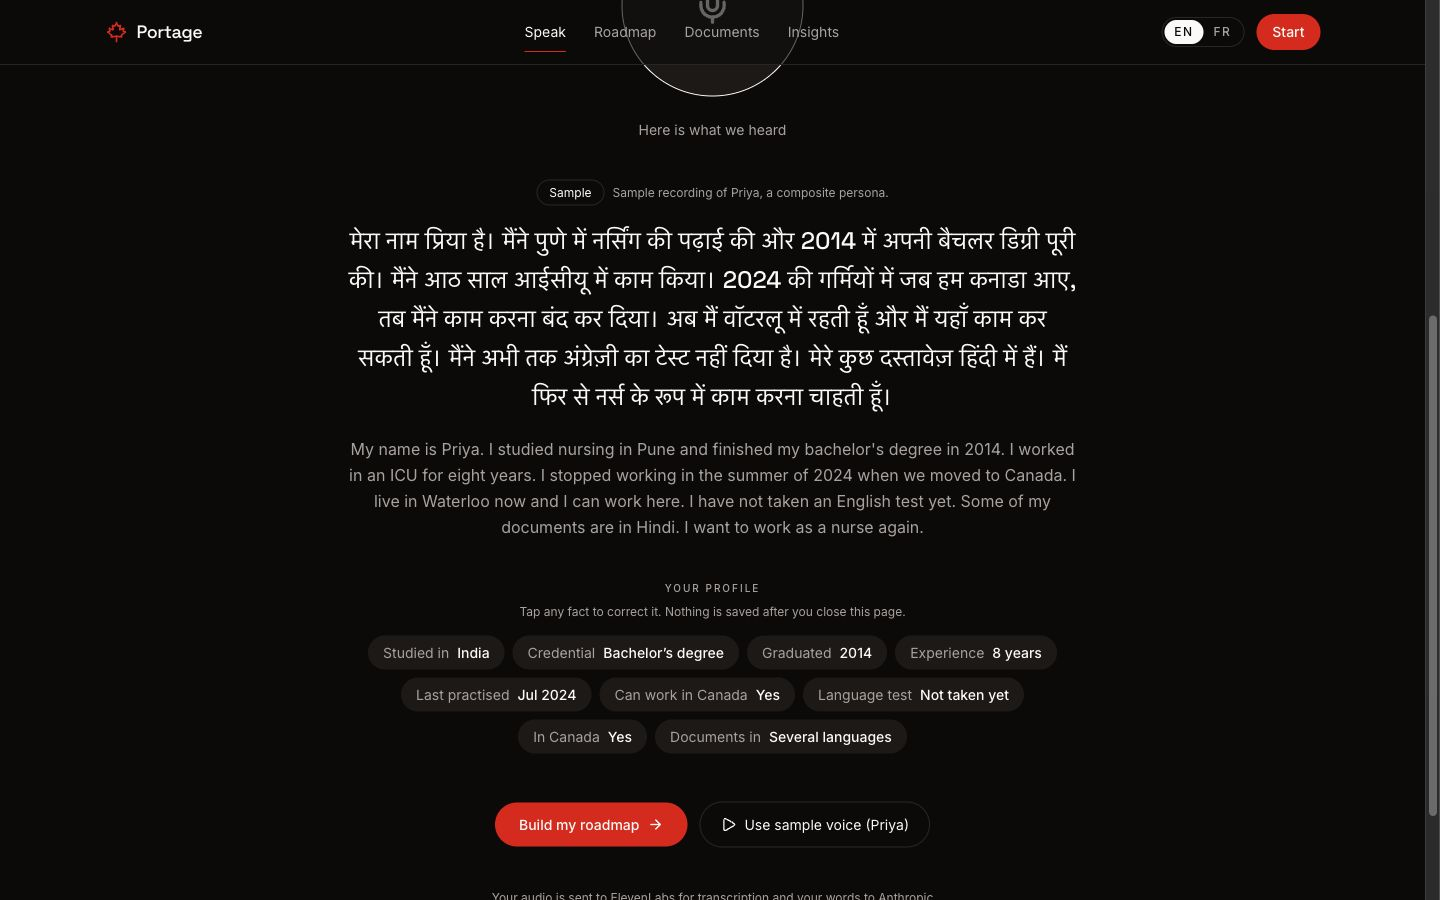
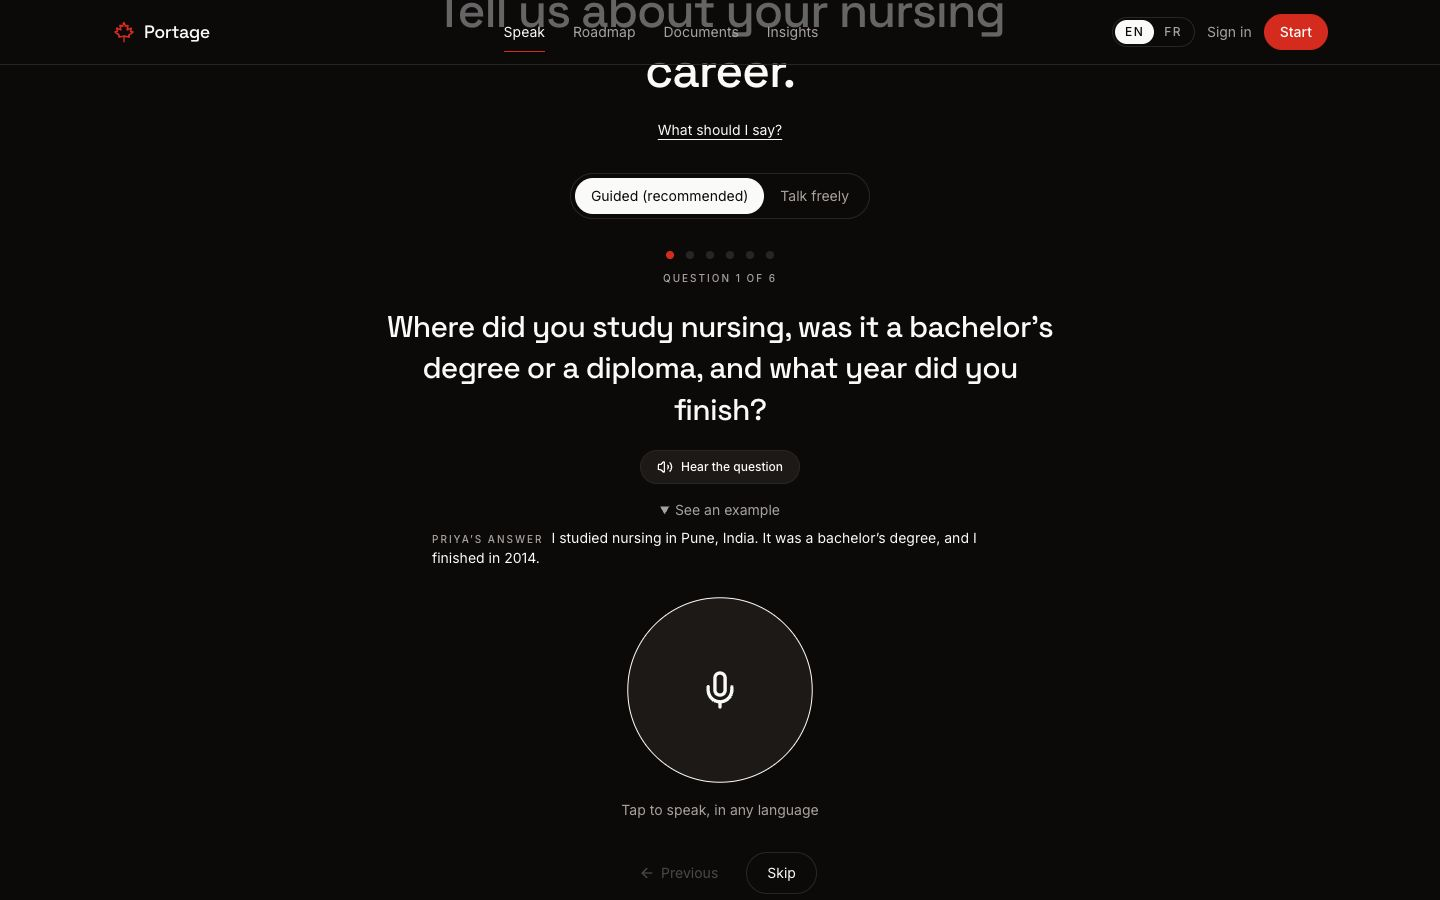
docs: demo flow through sign-in and the profile, guided shots, smoke checks

diff --git a/src/components/pitch/copy.ts b/src/components/pitch/copy.ts
@@ -53,7 +53,8 @@ export const SLIDES: SlideCopy[] = [
     label: "Live",
     notes: [
       "Let me show you. Click Open the live demo: same tab, real AI.",
-      "Path: sample voice, Build my roadmap, toggle to the Portage plan, Hear your plan, Documents police check, Insights, then Back to pitch.",
+      "Path: Continue as Priya (demo), her profile is already filled; settle the name conflict; Roadmap, toggle to the Portage plan, Hear your plan; Documents; Insights; then Back to pitch.",
+      "5 min: on Speak, show the guided interview: one question at a time, read aloud in Hindi.",
       "If anything is slow, use the demo-mode link instead: same flow with fixtures.",
     ],
   },

diff --git a/docs/DEMO_RUNBOOK.md b/docs/DEMO_RUNBOOK.md
@@ -1,10 +1,10 @@
 # Demo runbook
 
 - Deck: **https://portage-navy.vercel.app/pitch** (the live demo starts from slide 5, in the same tab)
-- Demo: **https://portage-navy.vercel.app**; instant backup: **https://portage-navy.vercel.app/?from=pitch&demo=1**
+- Demo: starts at **https://portage-navy.vercel.app/signin** (Continue as Priya); instant backup: **https://portage-navy.vercel.app/signin?from=pitch&demo=1**
 - Known-good release: tag **`v1.2-demo`** (commit `5bab52a`, "Merge pull request #52": the Portage line hero and product shots in the chapters). Older fallbacks: `v1.1-demo` (`3fe94e1`, one language at a time) and `v1.0-demo` (`8063c17`). See [If a late deploy breaks the site](#if-a-late-deploy-breaks-the-site).
 
-The pitch runs live with real AI (decision 15). `?demo=1` serves fixtures with no network calls to the AI providers. Priya is a composite persona; say so if asked.
+The pitch runs live with real AI (decision 15). `?demo=1` serves fixtures with no network calls to the AI providers. Priya is a composite persona; say so if asked. Her demo account lives only in this browser (decision 18): no server, no password.
 
 ## T-10 minutes
 
@@ -12,10 +12,10 @@ The pitch runs live with real AI (decision 15). `?demo=1` serves fixtures with n
 - [ ] Chrome: a profile with **no extensions**, zoom **100%**, window at least 1440 wide, bookmarks bar hidden.
 - [ ] Sound **on**, volume about 60%, output to the room speakers if there are any (for "Hear your plan").
 - [ ] macOS: **Reduce motion OFF** (System Settings, Accessibility, Display), **Do Not Disturb ON**, notifications off, Dock hidden.
-- [ ] From the `portage/` folder: `pnpm smoke https://portage-navy.vercel.app` prints "All checks passed" (six pages including `/pitch`, plus the demo profile call). If anything fails, see [If a late deploy breaks the site](#if-a-late-deploy-breaks-the-site).
+- [ ] From the `portage/` folder: `pnpm smoke https://portage-navy.vercel.app` prints "All checks passed" (ten checks: eight pages including `/pitch`, `/signin` and `/profile`, the demo profile call, and one guide audio clip). If anything fails, see [If a late deploy breaks the site](#if-a-late-deploy-breaks-the-site).
 - [ ] Tabs pre-opened, in this order:
   1. https://portage-navy.vercel.app/pitch (the deck, then the live demo in this same tab)
-  2. https://portage-navy.vercel.app/?from=pitch&demo=1 (backup: same flow with fixtures, and "Back to pitch" still works)
+  2. https://portage-navy.vercel.app/signin?from=pitch&demo=1 (backup: same flow with fixtures, and "Back to pitch" still works)
   3. https://portage-navy.vercel.app/?reset=1 (warm-up tab; also clears a profile before handing the laptop over)
 - [ ] Deck PDF on the desktop: in tab 1 press Cmd+P, Destination **Save as PDF**, **Background graphics** on (9 landscape pages). Copy it to a USB stick or cloud link too.
 - [ ] Backup video on the desktop: `BACKUP_VIDEO_PATH` (placeholder until recorded), opened once in QuickTime.
@@ -26,7 +26,7 @@ Cold serverless functions can take much longer on the first call (a cold profile
 
 ```bash
 L=https://portage-navy.vercel.app
-for p in / /start /roadmap /documents /insights /pitch; do curl -s -o /dev/null -w "$p %{http_code} %{time_total}s\n" "$L$p"; done
+for p in / /start /roadmap /documents /insights /pitch /signin /profile /guide/hi/q1.mp3; do curl -s -o /dev/null -w "$p %{http_code} %{time_total}s\n" "$L$p"; done
 jq -c '{transcript: .text, languageCode, locale: "en"}' src/data/fixtures/transcript-priya.json | curl -s -X POST -H "content-type: application/json" -d @- -o /dev/null -w "profile %{http_code} %{time_total}s\n" "$L/api/profile"
 curl -s -F "file=@public/demo/docs/sample-police-check.pdf;type=application/pdf" -F "profile=<src/data/fixtures/profile-priya.json" -o /dev/null -w "doc-check %{http_code} %{time_total}s\n" "$L/api/doc-check"
 say -o /tmp/warm.wav --data-format=LEI16@16000 "My name is Priya and I am a nurse." && curl -s -F "audio=@/tmp/warm.wav;type=audio/wav" -o /dev/null -w "transcribe %{http_code} %{time_total}s\n" "$L/api/transcribe"
@@ -37,14 +37,14 @@ The last line warms Priya's short Hindi clip (Portage plan). The text must match
 
 Expected (measured Sep 26, 2026): pages about 0.2 s, profile about 7.7 s, doc-check about 3 s, transcribe about 0.5 s, speak-short-hi about 4.5 s cold and 0.3 s once cached.
 
-The speech cache lives in each server instance, and Vercel can answer from a fresh one, so the curl alone is not a guarantee. The reliable warm-up is in the browser: in **tab 3**, open `/roadmap`, press **Hear your plan** once in each view (One at a time, Portage plan) and stop it. Then load tab 3 again with `?reset=1`. Finally, in **tab 1**, press Home so the deck is on slide 1 (this also restarts the notes timer).
+The speech cache lives in each server instance, and Vercel can answer from a fresh one, so the curl alone is not a guarantee. The reliable warm-up is in the browser: in **tab 3**, open `/roadmap`, press **Hear your plan** once in each view (One at a time, Portage plan) and stop it. Then reset Priya's demo account: in tab 3 open `/signin`, **Continue as Priya (demo)**, then the avatar menu (**P**, top right) > **Reset demo** (her seeded profile and the name conflict come back), then **Sign out**. The account stays in this browser, reset, for the demo. Load tab 3 again with `?reset=1`. Finally, in **tab 1**, press Home so the deck is on slide 1 (this also restarts the notes timer).
 
 ## The deck
 
 - **→ / Space** next, **←** back, **1-9** jump to a slide, **F** fullscreen, **N** speaker notes with a timer. Clicking a slide also advances.
 - The notes panel is on the same screen, so the room sees it on a mirrored projector. Use **N** in rehearsal; on stage keep it closed unless the display is extended.
 - The URL keeps the slide (`/pitch?s=6`), so a reload stays put.
-- Slide 5 has **Open the live demo** (same tab, real AI) and **Instant backup (demo mode)** (same flow with fixtures).
+- Slide 5 has **Open the live demo** (same tab, real AI; it opens `/signin`) and **Instant backup (demo mode)** (same flow with fixtures).
 - Every page of the demo shows **Back to pitch** in the navbar (top right, next to EN/FR); it opens slide 6, "What just happened".
 
 ## The click path
@@ -65,18 +65,17 @@ Lines in quotes are what to say. The speaker notes (**N**) hold the slide lines.
 | 2:40 | Slide 8, why Portage | "A personal, cited, deadline-aware plan, and a live view for government of where people get stuck." |
 | 2:50 | Slide 9, next 30 days | "We're Taha and Ebrahim. Portage. Carry your career across." |
 
-Demo, timed from **Open the live demo**:
+Demo, timed from **Open the live demo** (under 90 seconds):
 
 | Time | Click | Say |
 |---|---|---|
-| 0:00 | Landing is on screen | "Priya was an ICU nurse for eight years. In Waterloo, she works retail." |
-| 0:05 | **Start**, then **Use sample voice (Priya)** | "She tells Portage her story in Hindi, in her own words." |
-| 0:15 | Point at the chips | "Portage pulls out the facts, and she can correct any of them." |
-| 0:20 | **Build my roadmap** | "Every CNO requirement, in order, with the official source." |
-| 0:30 | Counter shows DEC 2027; point at the red warning | "One step at a time, she finishes in December 2027, and her evidence of practice expires in July. She would have to start over." |
-| 0:40 | **Portage plan** (cards glide, counter drops to APR 2027) | "Same steps, done in parallel: April 2027. It's tight, so Portage tells her what protects her window: start her school documents now." |
+| 0:00 | `/signin`: **Continue as Priya (demo)** (the button turns into a ring, a check, then the red Portage line wipes into her profile) | "Priya signs in. Her account lives only in this browser: no server, no password." |
+| 0:08 | `/profile`: point at the header (APR 2027, tight) and the small source lines under the fields | "Everything she told Portage in Hindi and every document she checked, in one place, and every fact says where it came from." |
+| 0:20 | "Your sources disagree": **Use this** under **Priya Deshpande** | "Her employment letter says Priya Anand Deshpande. Portage never overwrites her silently: she picks her passport name, and the document check uses it." |
+| 0:30 | **Next step** (the Roadmap opens on the Portage plan, at her school documents step), then Esc | "Every CNO requirement, in order, with the official source." |
+| 0:38 | **One at a time** (counter DEC 2027, red warning), then **Portage plan** (cards glide, APR 2027) | "One step at a time: December 2027, and her evidence of practice expires in July, so she would start over. Same steps in parallel: April 2027, tight, and Portage shows what protects her window." |
 | 0:55 | **Hear your plan** plays the short clip: licence date, tight, first step (about 23 s in Hindi). Let the first sentence play, then press **Stop** | "And she hears her plan in Hindi: when, how tight, and what to do first." |
-| 1:05 | Nav **Documents**, then **Police check** sample | "Before she mails anything, Portage checks it. Her police check is too early: it would expire before she registers." |
+| 1:05 | Nav **Documents**, then **Police check** sample | "Before she mails anything, Portage checks it. Her police check is too early: it would expire before she registers. The result lands on her profile." |
 | 1:20 | Nav **Insights** | "And for governments: where Canada's talent gets stuck. These are CNO's real numbers." |
 | 1:30 | Navbar: **Back to pitch** | |
 
@@ -88,14 +87,15 @@ Demo, timed from **Open the live demo**, adding these to the path above:
 
 | Time | Click | Say |
 |---|---|---|
-| 0:00 | Landing: scroll once through the chapters to the three numbers | "7,957 internationally educated applicants in Ontario are waiting. CNO's own guideline is about 12 months, across 9 requirements." |
-| 0:25 | **Start**: optionally record live in English (press the orb, speak about 10 seconds, press again) | While it works, read the progress lines: "Transcribing, understanding her story, building her plan." (about 8 seconds live) |
-| 0:50 | Tap the **Last practised** chip and change it | "She stays in control of every fact." |
-| 1:10 | Roadmap: click the **Pass the NCLEX-RN** card | "Every step shows who does it, the official processing time, the fee, and CNO's source link." Press Esc. |
-| 1:30 | Toggle to **Portage plan**; point at "What protects your window" | "Tight, not hopeless: these three steps, starting now." |
-| 1:50 | **Hear your plan** (the short clip plays in full, about 23 s), then open **Transcript** | "Read aloud in Hindi: her licence date, how tight it is, and her first step. The facts come from our data; the model only translates. **Full plan** reads every step." |
+| 0:00 | `/signin`: **Continue as Priya (demo)** | As in the 3-minute path. |
+| 0:10 | `/profile`: settle the name (**Use this** under **Priya Deshpande**) | As in the 3-minute path. |
+| 0:25 | Progress: tick **CNO application submitted** (a toast shows the earliest licence moving), then untick it | "Every fact is editable. Change one and the plan recomputes on the spot." |
+| 0:40 | Nav **Speak**: **Guided (recommended)**, **Hear the question** (Hindi), **Show in हिन्दी**, **See an example** | "Nobody knows what to say, so Portage asks one question at a time, in her language, with an example." |
+| 1:00 | **Use sample voice (Priya)** | While it works (about 9 seconds live): "Six answers become one transcript; the AI only reads it." Then point at the chips and **Review on your profile**. |
+| 1:25 | **Build my roadmap**; click the **Pass the NCLEX-RN** card | "Every step shows who does it, the official processing time, the fee, and CNO's source link." Press Esc. |
+| 1:45 | Toggle to **Portage plan**; point at "What protects your window"; **Hear your plan**, then open **Transcript** | "Tight, not hopeless: these steps, starting now. Read aloud in Hindi; the facts come from our data, the model only translates." |
 | 2:15 | **FR** toggle, then back to **EN** | "Every screen in French too, one language at a time. A French browser starts in French." |
-| 2:25 | Documents: **Employment letter** sample | "Some documents must come directly from the employer. Portage catches that before it costs her months." |
+| 2:25 | Documents: **Employment letter** sample | "Some documents must come directly from the employer, and this one uses a longer version of her name. Portage catches both before they cost her months." |
 | 2:45 | Insights: hover Ontario and another province | "Ontario first. Every province is a new data file plus expert review." |
 | 3:05 | Navbar: **Back to pitch** (slide 6) | |
 
@@ -103,8 +103,10 @@ Demo, timed from **Open the live demo**, adding these to the path above:
 
 | Symptom | Do this, mid-sentence |
 |---|---|
-| AI slow (spinner over about 10 s) or a "Sample" tag appears when live was expected | Keep talking; switch to **tab 2** (`?from=pitch&demo=1`) and continue the same click path. Fixtures answer in under 0.2 s. "Here is the same flow in demo mode." |
+| AI slow (spinner over about 10 s) or a "Sample" tag appears when live was expected | Keep talking; switch to **tab 2** (`/signin?from=pitch&demo=1`) and continue the same click path. Fixtures answer in under 0.2 s. "Here is the same flow in demo mode." |
 | **Hear your plan** button disappears (speech failed) | Skip that beat; it hides itself on failure. The plan on screen is unaffected. |
+| Priya's profile shows no "Your sources disagree" card (someone settled it in rehearsal) | Avatar menu (**P**) > **Reset demo**; the card comes back at once. |
+| The sign-in wipe seems stuck | Open `/profile` in the address bar; the account is already saved. |
 | **Back to pitch** is missing | Switch to tab 1's address bar and open `/pitch?s=6`. |
 | Page will not load on venue wifi | Switch to the phone hotspot (already joined once), reload tab 2. |
 | The deck will not load | Open the deck PDF from the desktop, full screen. Run the demo from tab 2, or the backup video. |
@@ -123,4 +125,4 @@ After an Instant Rollback, Vercel stops assigning new `main` deploys to producti
 
 ## After the demo
 
-Open tab 3 (`?reset=1`) before handing the laptop to anyone, so the next viewer starts clean.
+Before handing the laptop to anyone: avatar menu > **Reset demo**, then **Sign out** (or **Delete my account** on `/profile` for an email account), and open tab 3 (`?reset=1`), so the next viewer starts clean.

diff --git a/README.md b/README.md
@@ -17,15 +17,17 @@ Canada needs nurses, and thousands of internationally educated nurses already li
 ![Landing](docs/screenshots/1-landing.jpg)
 
 1. **Landing (`/`)**: the promise, how it works, and three sourced numbers.
-2. **Speak (`/start`)**: tell your story out loud in any language; see the transcript, an English translation, and editable profile facts.
+2. **Speak (`/start`)**: a guided interview asks six questions, one at a time, read aloud in your language (nine languages, pre-generated); or talk freely with a checklist of what to mention. See the transcript and editable profile facts.
 3. **Roadmap (`/roadmap`)**: every CNO step for *your* profile, one at a time versus the Portage plan (steps in parallel), with the earliest licence date, official sources on every step, and deadline warnings (for the sample persona, her evidence of practice expires if she does one step at a time; on the Portage plan she keeps it, but only if each step goes to plan).
 4. **Documents (`/documents`)**: upload a document; Portage reads what is printed and checks it against CNO's rules (who must send it, validity windows, translation, names).
 5. **Insights (`/insights`)**: for governments and regulators, where applicants are and where they stall, with real CNO numbers and a clearly labelled illustrative funnel.
+6. **Sign in and profile (`/signin`, `/profile`)**: an optional, passwordless demo account that lives only in this browser. The profile holds everything Portage knows, with where each fact came from (voice interview, a document, or your own edit); sources that disagree are shown side by side for you to settle. It stores structured facts only, never audio, transcripts or document files, and every page works without it.
 
 | | |
 |---|---|
 | ![Speak](docs/screenshots/2-intake.jpg) | ![Roadmap](docs/screenshots/3-roadmap.jpg) |
 | ![Documents](docs/screenshots/4-documents.jpg) | ![Insights](docs/screenshots/5-insights.jpg) |
+| ![Sign in](docs/screenshots/6-signin.jpg) | ![Profile](docs/screenshots/7-profile.jpg) |
 
 ## AI versus the deterministic engine
 

diff --git a/docs/status/taha.md b/docs/status/taha.md
@@ -41,4 +41,4 @@ Round 11: sign-in, account profile, guided voice interview. Next: Step 5 chip ro
 - None. Waiting on the native Hindi recording (#15) and Ebrahim's #35 / #37.
 
 ## Last updated
-Sun Sep 27, 2026, 12:08 AM
+Sun Sep 27, 2026, 12:16 AM
